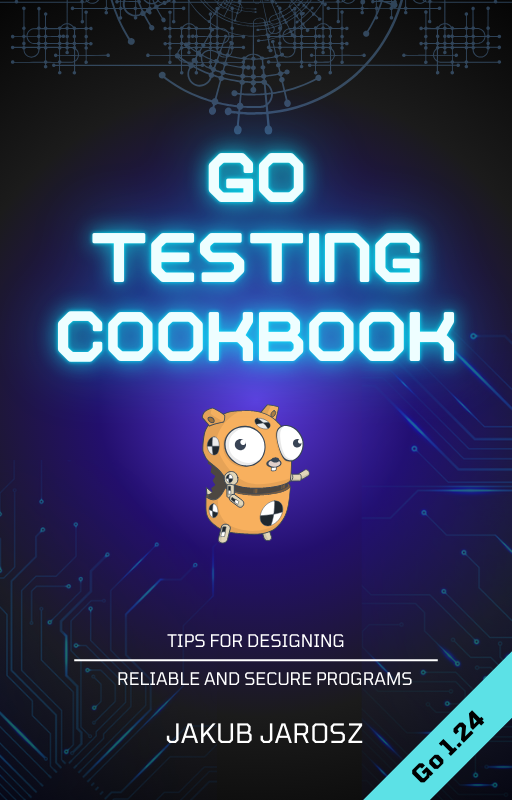
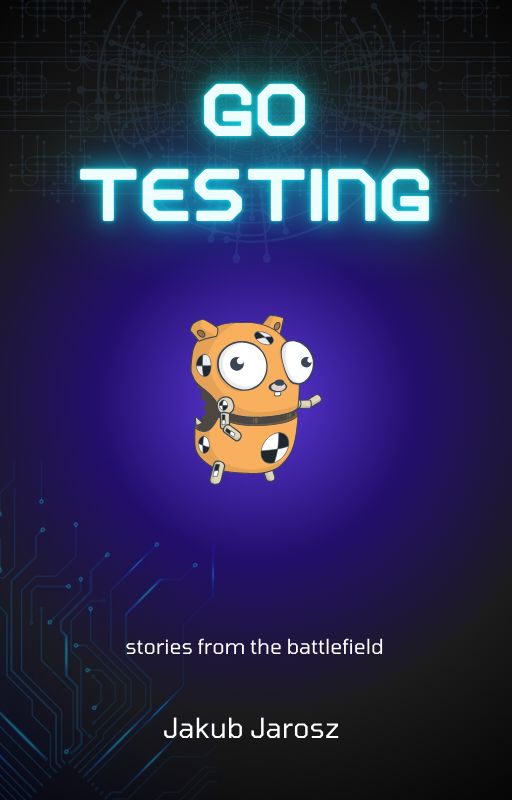
remove code samples

diff --git a/README.md b/README.md
@@ -1,6 +1,5 @@
-# Go Testing Cookbook
-
+# Go Testing
 
 ![](cover.png)
 
-This repository contains the code examples for the book *Go Testing Cookbook*, by Jakub Jarosz.
+This repository contains the code examples for the book *Go Testing*, by Jakub Jarosz.
